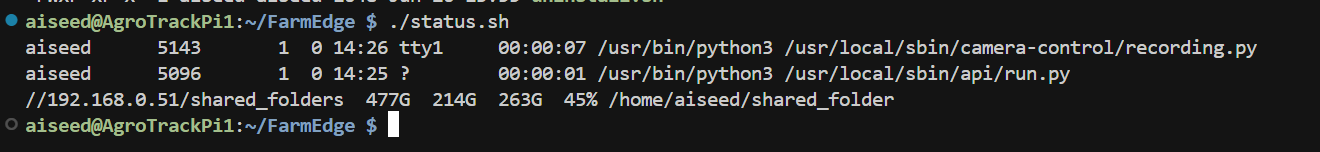
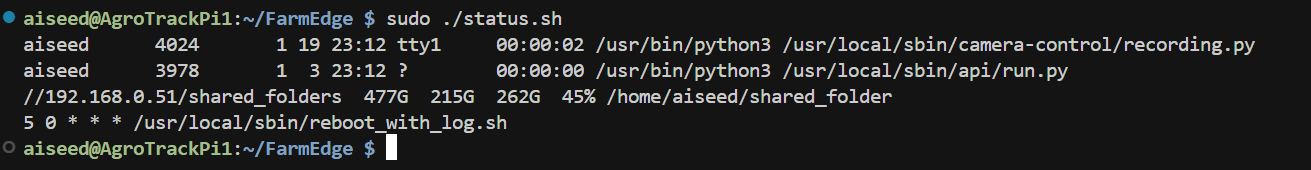
Edit readme about a command and a image

Changed region(s): [[0.0, 0.0526, 0.9764, 0.9474], [0.0305, 0.0, 0.5187, 0.0263], [0.0, 0.2368, 0.0915, 0.3684]]

diff --git a/README.md b/README.md
@@ -28,12 +28,11 @@ Before installing the services on the edge devices, make sure setting up the  [s
 
      4. run `FarmEdge/setup.sh` as root
         ```bash
-        sudo chmod +x setup.sh
         sudo ./setup.sh
         ```
      5. (To check running)
         ```bash
-        ./status.sh
+        sudo ./status.sh
         ```
         ![setup_status.png](images/setup_status.png)
 
